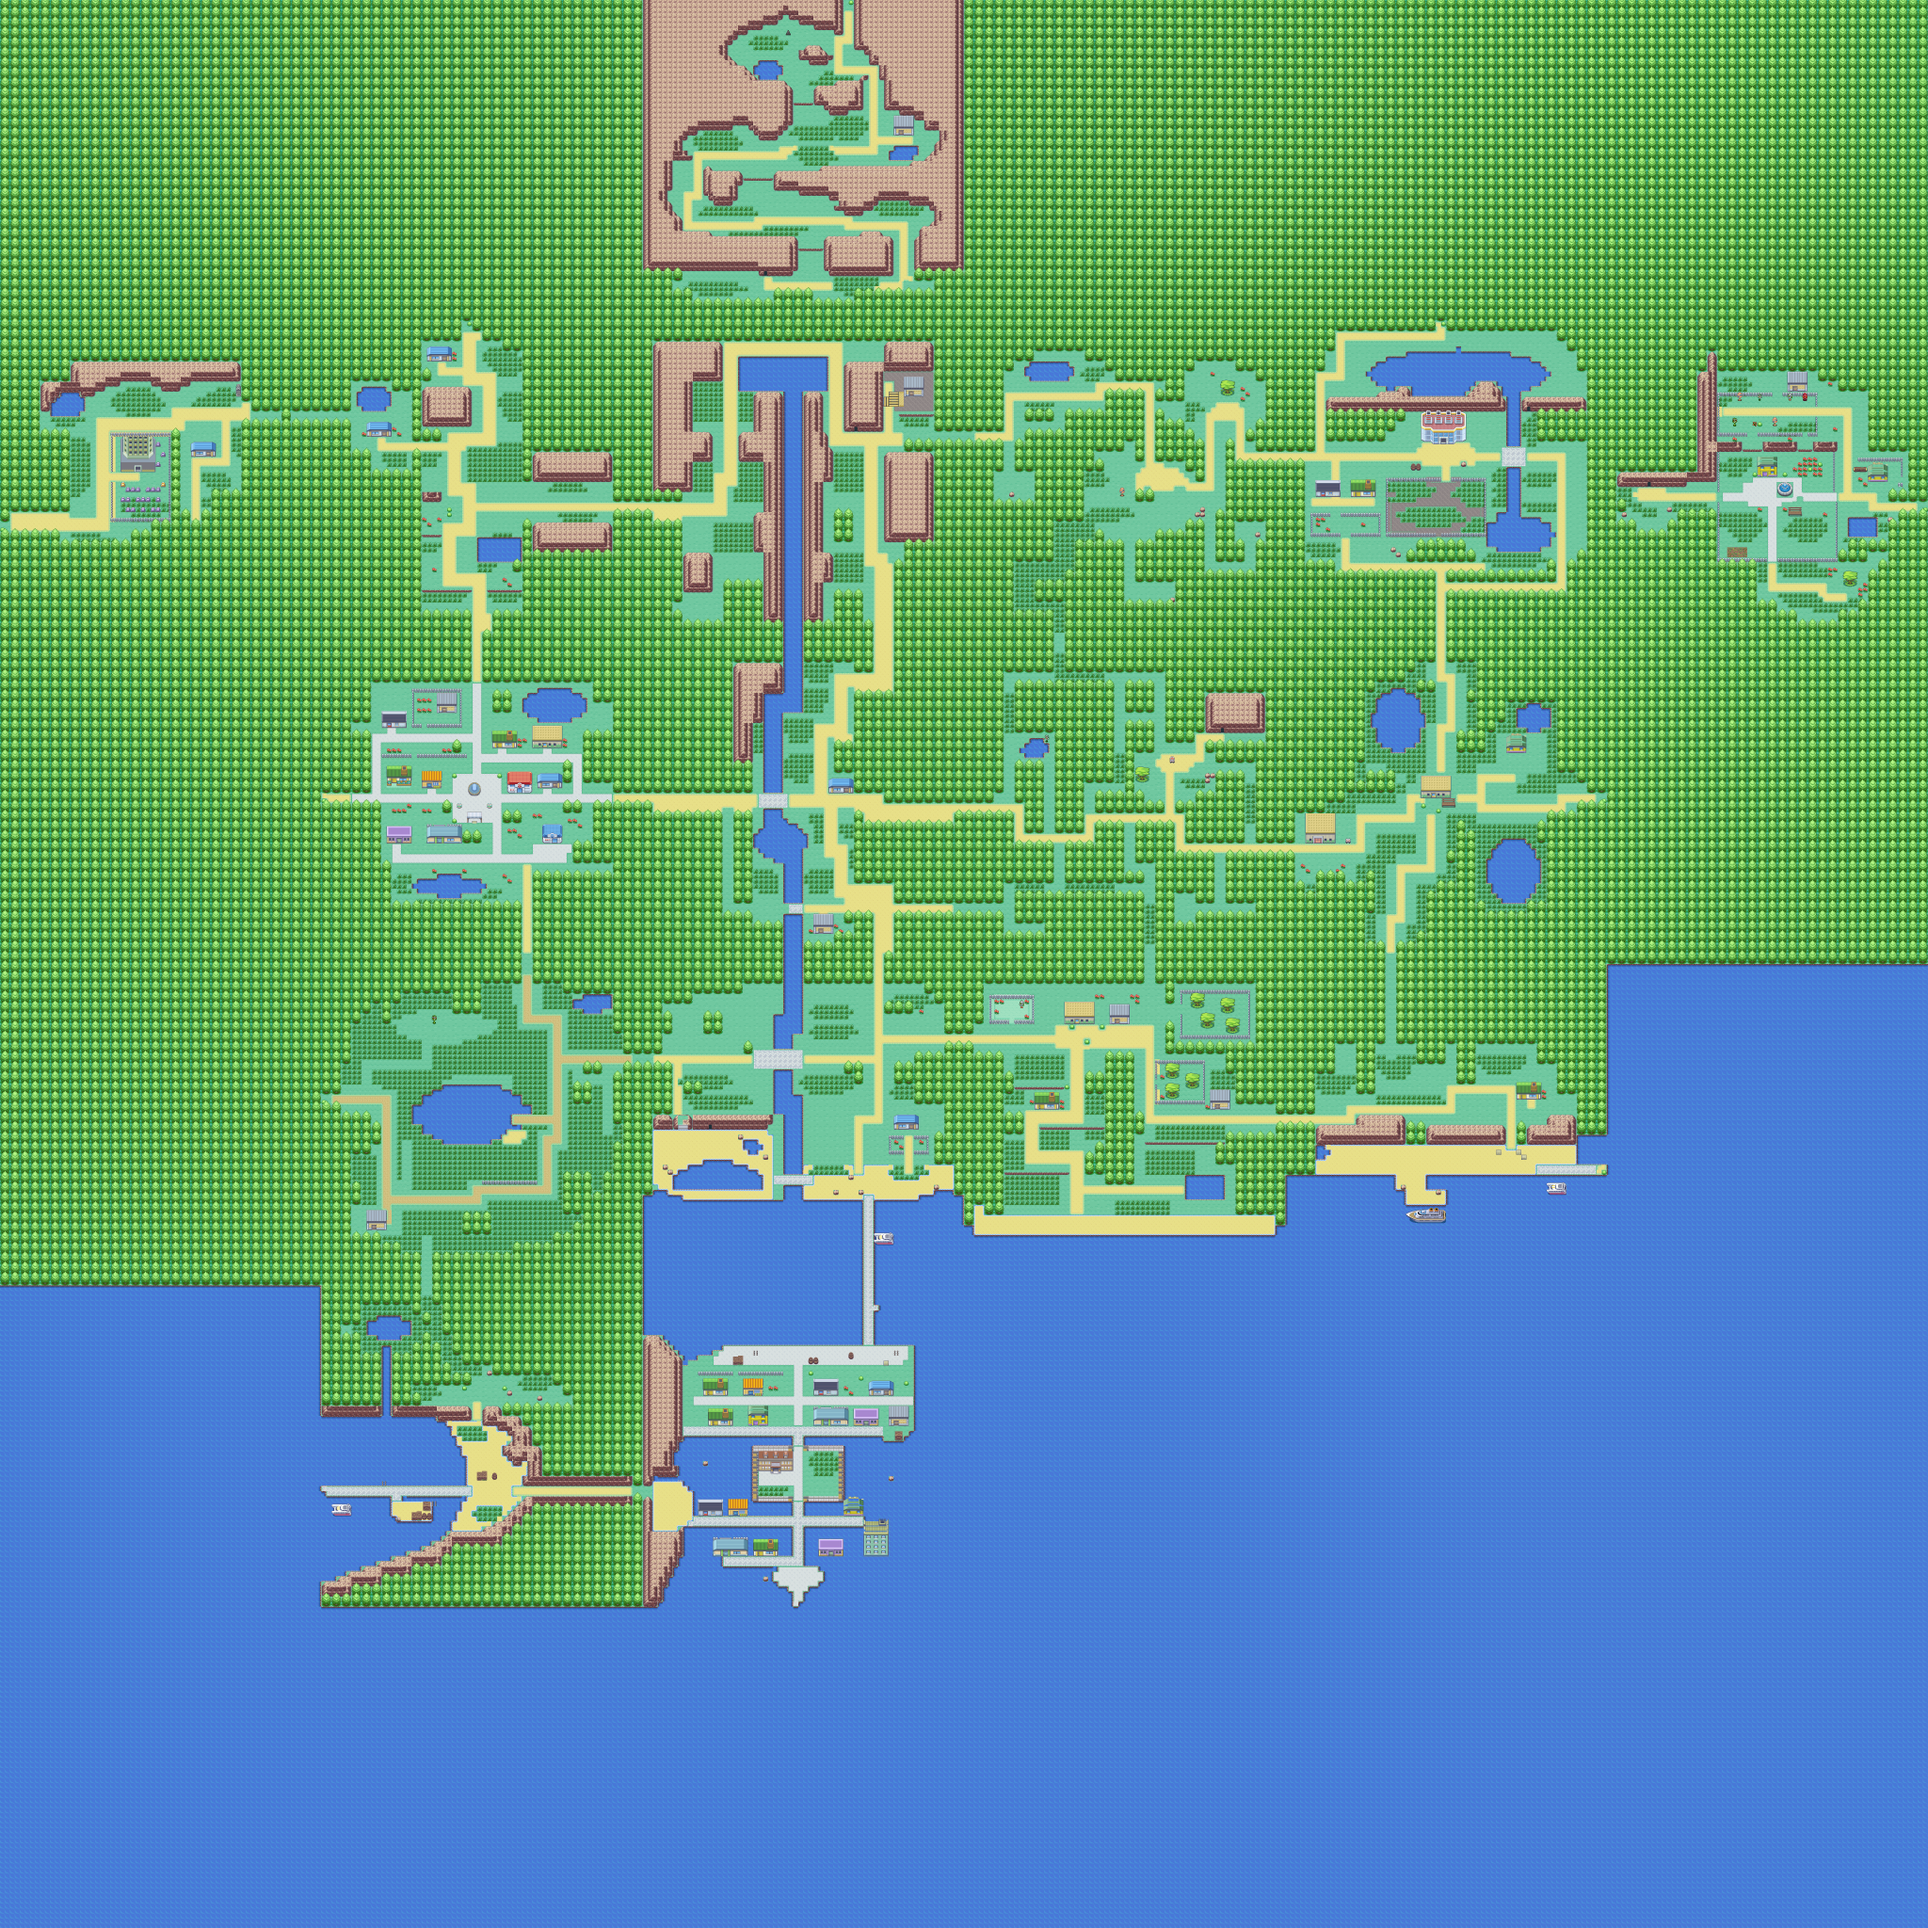
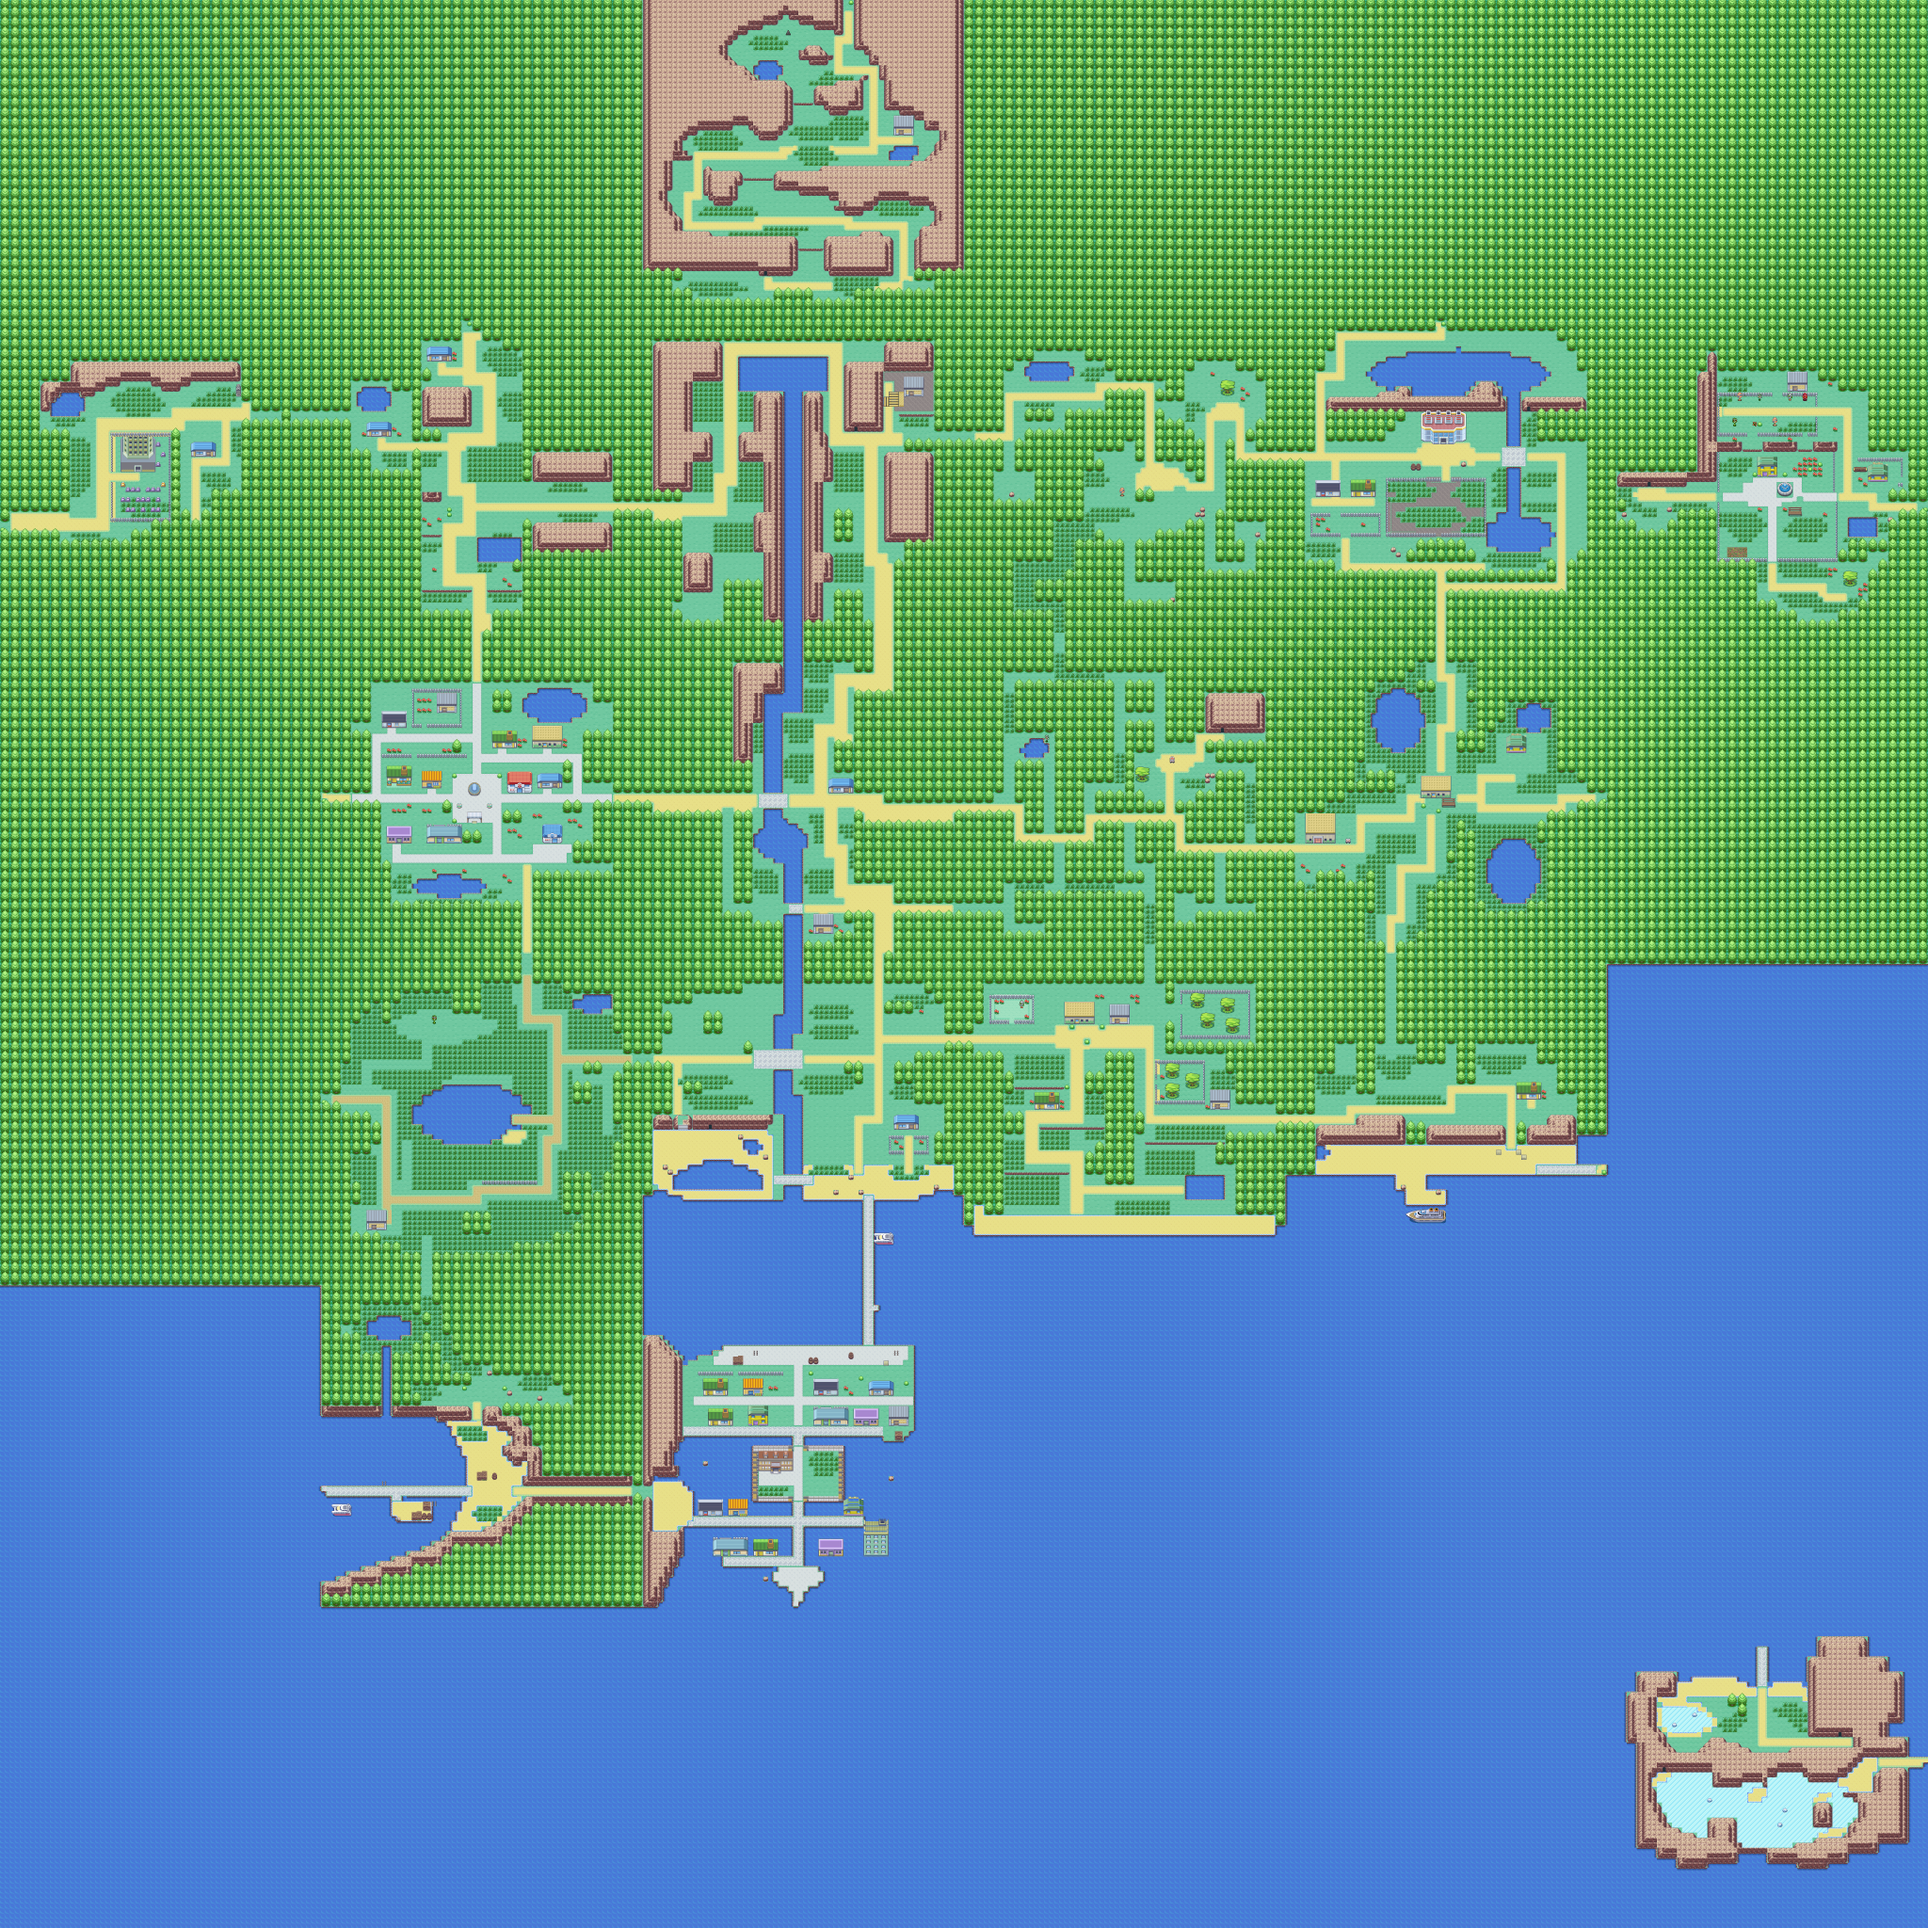
WIP: rebased onto Frostreef: the Spell Tag beside the NeverMeltIce, the tower beside the ice

Changed region(s): [[0.8438, 0.8438, 1.0, 0.9688]]

diff --git a/docs/screens/greystone-vale/README.md b/docs/screens/greystone-vale/README.md
@@ -1353,9 +1353,120 @@ The same route on another seed found the Old Bloom bare, as three raids in four 
 ![The glasshouse](lost-garden-walk/7-glasshouse.png)
 ![The Miracle Seed, taken](lost-garden-walk/8-miracle-seed.png)
 ![Out by the Gardener's Gate](lost-garden-walk/9-out-by-the-gardeners-gate.png)
+## Frostreef
+
+The third far place drawn: an island of ice on the outer reef, south-east of
+the Wreck, that nobody walks to. It built the two mechanics the ring shares,
+the boat and the ice.
+
+- **The way in: The Ice Run.** The salvage launch puts in at the Wreck's pier
+  on the flood tide, from 2:00 until 4:00 of a raid, and nowhere else and at no
+  other time. Pressing out to sea from the end of the pier asks first, in
+  FireRed's sailor's words ("Ahoy, there!"), and then carries the player tile
+  by tile east along the coast and south across two cells of open sea to the
+  Ice Jetty: 134 tiles, about twenty seconds of the raid clock, charged as
+  walking that far would be. The hunter cannot follow across the water, so
+  the island is the one place in the vale a raid can put the sea between
+  itself and the hunter - at the price of the tide.
+- **The north shore.** The jetty lands on a beach and a meadow under the berg.
+  The Old Whaler there says what the island is, and a frozen pool in the
+  meadow teaches the ice where getting it wrong costs nothing: a step onto ice
+  carries on until something stops it.
+- **Berg Cave.** Two floors of FireRed's Icefall Cave under the berg, the only
+  way to the far side of the ridge. Each is a sheet of ice round crags of rock,
+  and the way on is reached only by stopping against the right snowy boulder;
+  every boulder on the ice is a stop some way across needs. A hidden find waits
+  in a pocket of each that only a slide reaches.
+- **The Frozen Lagoon.** The island's best ground, walled off by the ridge: a
+  lagoon frozen solid, Lapras waiting on the snow-bank in the middle of it at
+  level 10, and the NeverMeltIce, FireRed's Ice-type gear, found nowhere else in
+  the game (a prize, so three raids in ten).
+- **The way out: the Whaler's Boat.** The whalers put in at the lagoon's
+  channel at 3:40. Miss the tide back on the launch and it is the only other way
+  off the island, and the lagoon is on the far side of the cave.
+
+What is only here: Seel, Shellder and Jynx, on every step of Berg Cave's floor
+(FireRed's Seafoam Islands and Icefall Cave, brought to a route's levels and
+measured with a level-8 starter of each kind at 73% to 90%); Lapras; and the
+NeverMeltIce. Dewgong is the one of Seafoam's own left out: it evolves at 34,
+and nothing in the game is fielded below the level it evolves at.
+
+### How it is built
+
+- **A boat is a link.** A map file's boat is a link whose two ends are `boat`
+  jetties outdoors, with a `sails` field: its name, its window in seconds and
+  the turns of its course (`MapFileSailing`). It is not a new top-level key, so
+  `submit_map` needs no migration, and a player's map can carry one. The game
+  lays it out as a boat (`world/sailing.ts`), never as a way through: every
+  search that asks where a player can get to - the checks, run generation, the
+  structure rules - adds its two ways across (`playerLinks`), and nothing the
+  hunter asks does. The stitcher writes one for each planned sailing once both
+  its jetties are drawn, with the fewest straight legs of deep water that stay
+  inside the cells the plan routes it through (`sailingLink` in `stitch.ts`).
+- **Ice is a material.** `ice` is the seventeenth (letter `i`), walkable and
+  `slides`; Berg Cave is a cave in the new `ice` style, drawn from FireRed's
+  Icefall Cave by `scripts/cut-frlg-ice.mjs` (`frlg-ice.png`), and the frozen
+  lagoon and pool out of doors are the same sheet of ice on the player-map
+  catalogue, with Icefall Cave's snowy boulders to stop against. A map maker
+  can paint it in an ice cave.
+- **Fair by construction.** `frostreef.test.ts` slides the whole island the
+  way a player has to, through the cave's ladders, with Lapras standing and
+  without: from the jetty everything is reached - every find, Lapras, the
+  whalers' boat - and nowhere a slide can leave you is somewhere the jetty and
+  the boat are both out of reach.
+
+![Frostreef](frostreef/frostreef.png)
+
+Berg Cave 1F and B1F:
+
+![Berg Cave 1F](frostreef/berg-cave-1f.png)
+![Berg Cave B1F](frostreef/berg-cave-b1f.png)
+
+### Played through
+
+`tools/playtest/frostreef.mjs` plays it in the real game on a test-mode build:
+the explorer run dropped in at the Salvage Camp, the walk to the pier, the
+boarding question, the crossing, the shore, both floors of Berg Cave solved a
+slide at a time (planned the way the player has to, by sliding), Lapras
+spoken to and fought, and away by the Whaler's Boat. The crossing cost 20.5
+seconds of raid clock for its 134 tiles, exactly what walking that far does.
+
+![Ahoy](frostreef/02-ahoy.png)
+![At sea](frostreef/03-at-sea.png)
+![The Ice Jetty](frostreef/04-ice-jetty.png)
+![Berg Cave 1F](frostreef/06-berg-cave-1f.png)
+![Out onto the frozen lagoon](frostreef/09-the-frozen-lagoon.png)
+![Lapras](frostreef/10-lapras.png)
+![Away on the Whaler's Boat](frostreef/12-away.png)
+
+### Judged blind
+
+Judged against FireRed's own island places, redrawn in this game's tiles by
+`tools/mapcraft/fromPret.mts` (Four Island, Birth Island, One Island's
+Treasure Beach and Two Island's Cape Brink), the island as two 48x40 views,
+two fresh judges a round. Berg Cave was judged against FireRed's own Icefall
+Cave and Seafoam Islands floors, drawn from pret in their own tiles, which are
+the tiles Berg Cave is cut from. Each round had two broken controls (a
+place's blocks shuffled); a judge who scored one level with or above a real
+place does not count.
+
+| Round | What changed | Island | Real mean | Berg Cave | Real mean |
+|---|---|---|---|---|---|
+| 1 | first draw | 4 and 4, 4 and 4 | judges did not count | 3 and 3, 3 and 3 | 7.0, 5.25 |
+| 2 | organic lagoon, rock drawn solid, boulders only where a way needs one | 6 and 6, 5 and 5 | judges did not count | **7 and 6, 6 and 5: passes** | 4.75, 5.5 |
+| 3 | meadow, track, pool at the headland | 5 and 6 | 7.5 | | |
+| 4 | ridge stepping in and out, sand round the pool | 6 and 5, 6 and 6 | 7.25, 6.75 | | |
+| 5 | reef and sandbar in the lagoon, south edge broken up | **6 and 6, 6 and 6** | 7.0, 7.5 | | |
+
+In round 5 both judges counted, and both scored the island above the weakest
+real place in the batch (4 and 5) and within one and a half points of the real
+mean. What both still named, for a later pass: the track is one ruled L, the
+tall-grass beds and the pool's rim are blocky, the two knolls in the lagoon
+read as pasted, and the berg is a very square block.
+
 ## The Moor Chapel
 
-The third far place drawn: a ruined chapel on the fell west of High Moor, reached
+The fourth far place drawn: a ruined chapel on the fell west of High Moor, reached
 only on a night raid. Its program is `tools/mapcraft/worlds/greystoneVale/moorChapel.ts`.
 
 ![The Moor Chapel](moor-chapel.png)
